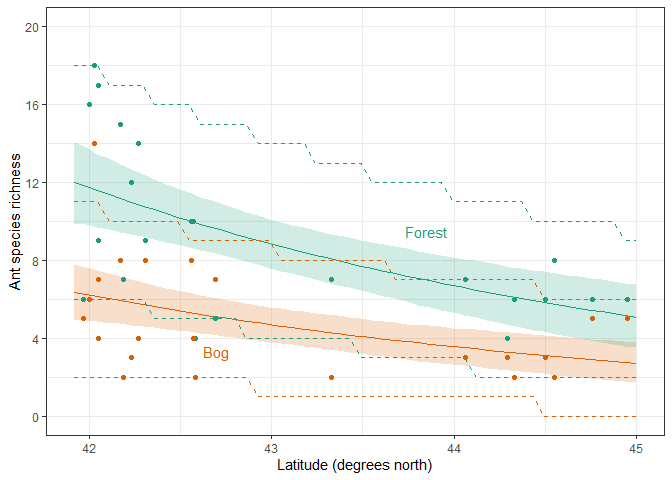
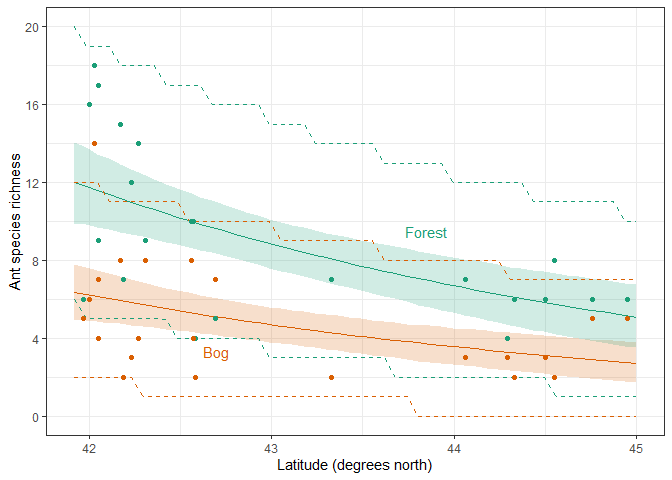
Change prediction interval from default to 95%

diff --git a/11_6_ants_bayes_GLM_rstanarm.md b/11_6_ants_bayes_GLM_rstanarm.md
@@ -443,7 +443,7 @@ is Poisson by assumption. The 95% prediction intervals (here CPI for
 stability) are then
 
 ``` r
-prediction_intervals <- predictive_interval(ppd)
+prediction_intervals <- predictive_interval(ppd, prob=0.95)
 prediction_intervals <- data.frame(prediction_intervals)
 names(prediction_intervals) <- c("ppdlo95", "ppdhi95")
 ```
@@ -478,10 +478,12 @@ preds |>
 ```
 
 ![](11_6_ants_bayes_GLM_rstanarm_files/figure-gfm/unnamed-chunk-26-1.png)<!-- -->
+
 This is substantially similar to the inference from our `ulam` script
 and the frequentist analysis. However, the regression intervals and
-prediction intervals are narrower, presumably because the default priors
-are a little bit informative. We’ll look at the priors next.
+prediction intervals are slightly narrower, presumably because the
+default priors are a little bit informative. We’ll look at the priors
+next.
 
 ## Summary
 
